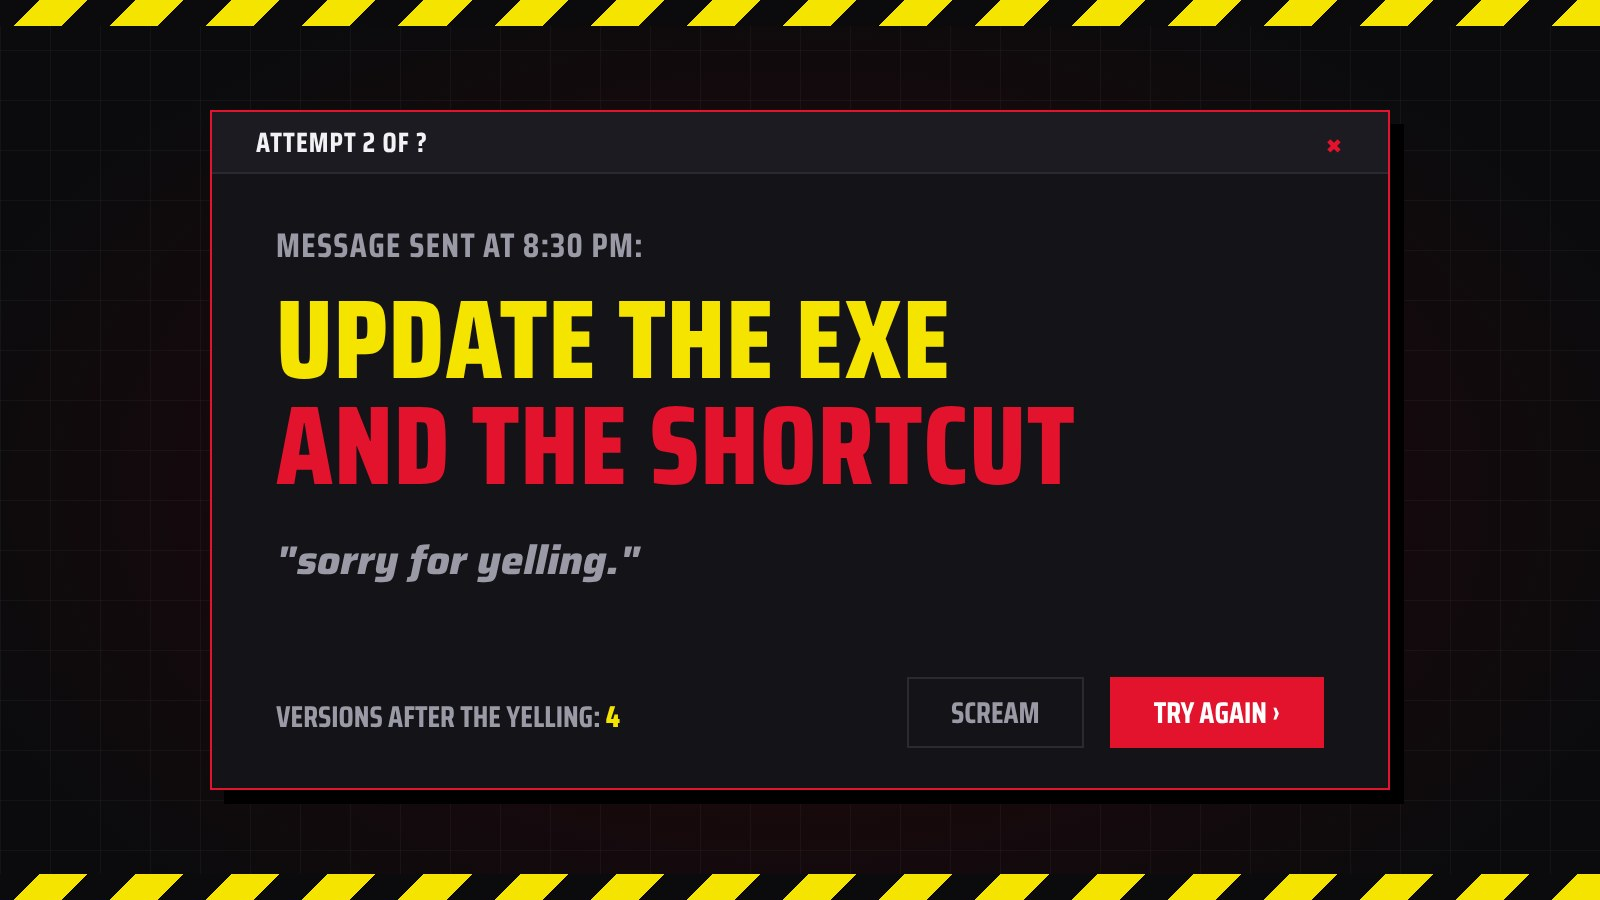
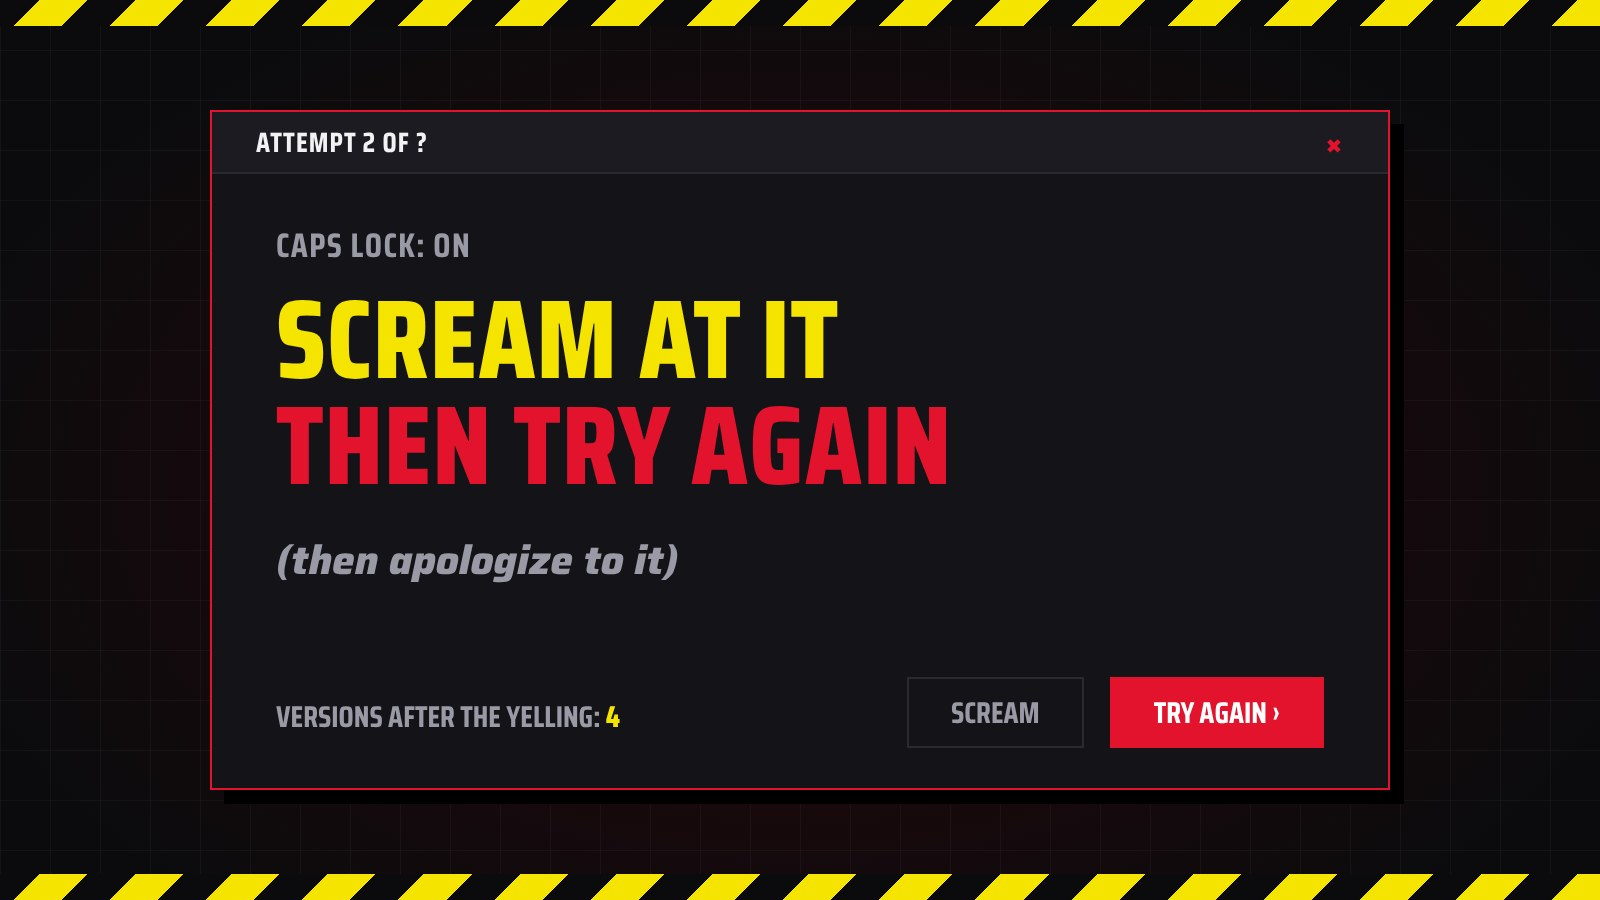
v0.32.1-alpha: scream post paraphrases instead of quoting
Claude-Session: https://claude.ai/code/session_01JCoxDD7QDAUCR5EihqqzKN

Changed region(s): [[0.1562, 0.2489, 0.6875, 0.56], [0.1562, 0.5911, 0.4375, 0.6533]]

diff --git a/docs/blog/scream-at-your-computer-and-try-again/index.html b/docs/blog/scream-at-your-computer-and-try-again/index.html
@@ -3,7 +3,7 @@
 <head>
   <meta charset="utf-8">
   <meta name="viewport" content="width=device-width, initial-scale=1">
-  <meta name="version" content="v0.32.0-alpha">
+  <meta name="version" content="v0.32.1-alpha">
   <meta name="theme-color" content="#0b0b0d">
   <title>If at First You Don't Succeed: Scream at Your Computer And Try Again | VRX Games</title>
   <link rel="icon" href="/assets/favicon.svg" type="image/svg+xml">
@@ -26,10 +26,8 @@
 <body data-page="post" data-slug="scream-at-your-computer-and-try-again">
   <main>
     <article id="post-content">
-      <p>Last night at about 8:30 I sent this to my computer:</p>
-      <blockquote><p>UPDATE THE EXE AND THE SHORTCUT ON MY DESKTOP - ALSO IT WONT LET MY PUT IN MY TOKEN AGAIN - ADD A MENU BAR WITH SETTINGS AND STUFF SO i CAN FUNCTIONALLY USE THIS</p></blockquote>
-      <p>And then, right after:</p>
-      <blockquote><p>sorry for yelling.</p></blockquote>
+      <p>Last night at about 8:30 I yelled at my computer. Full caps lock, no punctuation, a run-on sentence with three demands in it.</p>
+      <p>About ten seconds later I said sorry to it.</p>
       <p>I apologized to the computer. I'm not going to pretend I didn't.</p>
 
       <h2>What happened</h2>
@@ -38,7 +36,7 @@
       <p>I'd already changed my mind about how chat logs should work, I'd asked for an installer that wouldn't eat my saved copies, and then I opened the thing and it wouldn't let me type a password. That was the moment the caps lock came on.</p>
 
       <h2>The yelling was the bug report</h2>
-      <p>Here's the funny part. Read that message again. Under the shouting, it's a perfect bug report.</p>
+      <p>Here's the funny part. Under all the shouting, that message was a perfect bug report.</p>
       <ul>
         <li>What's broken: I can't put my token in again.</li>
         <li>What I need: a menu bar with settings.</li>

diff --git a/art/banners/scream-at-your-computer-and-try-again.html b/art/banners/scream-at-your-computer-and-try-again.html
@@ -10,9 +10,9 @@
 .cnt b { color: #f5e400; }
 </style>
 <div class="win"><div class="bar">Attempt 2 of ?<i>&times;</i></div><div class="in">
-<div class="q">Message sent at 8:30 pm:</div>
-<div class="big">Update the exe<br><span class="r">and the shortcut</span></div>
-<div class="sorry">"sorry for yelling."</div>
+<div class="q">Caps lock: on</div>
+<div class="big">Scream at it<br><span class="r">then try again</span></div>
+<div class="sorry">(then apologize to it)</div>
 <div class="cnt">Versions after the yelling: <b>4</b></div>
 <div class="btns"><span class="btn ghost">Scream</span><span class="btn">Try again &rsaquo;</span></div>
 </div></div>

diff --git a/docs/blog/you-can-make-anything-you-want/index.html b/docs/blog/you-can-make-anything-you-want/index.html
@@ -3,7 +3,7 @@
 <head>
   <meta charset="utf-8">
   <meta name="viewport" content="width=device-width, initial-scale=1">
-  <meta name="version" content="v0.32.0-alpha">
+  <meta name="version" content="v0.32.1-alpha">
   <meta name="theme-color" content="#0b0b0d">
   <title>You Can Make Anything You Want (Terms and Conditions Apply) | VRX Games</title>
   <link rel="icon" href="/assets/favicon.svg" type="image/svg+xml">

diff --git a/docs/blog/one-long-day/index.html b/docs/blog/one-long-day/index.html
@@ -3,7 +3,7 @@
 <head>
   <meta charset="utf-8">
   <meta name="viewport" content="width=device-width, initial-scale=1">
-  <meta name="version" content="v0.32.0-alpha">
+  <meta name="version" content="v0.32.1-alpha">
   <meta name="theme-color" content="#0b0b0d">
   <title>One long day: dice on stream, and an app that opens twice | VRX Games</title>
   <link rel="icon" href="/assets/favicon.svg" type="image/svg+xml">

diff --git a/docs/blog/pokedungeon-1-23/index.html b/docs/blog/pokedungeon-1-23/index.html
@@ -3,7 +3,7 @@
 <head>
   <meta charset="utf-8">
   <meta name="viewport" content="width=device-width, initial-scale=1">
-  <meta name="version" content="v0.32.0-alpha">
+  <meta name="version" content="v0.32.1-alpha">
   <meta name="theme-color" content="#0b0b0d">
   <title>PokéDungeon 1.23: shops are people, and deep floors pay | VRX Games</title>
   <link rel="icon" href="/assets/favicon.svg" type="image/svg+xml">

diff --git a/docs/blog/contract-zero-first-build/index.html b/docs/blog/contract-zero-first-build/index.html
@@ -3,7 +3,7 @@
 <head>
   <meta charset="utf-8">
   <meta name="viewport" content="width=device-width, initial-scale=1">
-  <meta name="version" content="v0.32.0-alpha">
+  <meta name="version" content="v0.32.1-alpha">
   <meta name="theme-color" content="#0b0b0d">
   <title>Contract Zero: from a design on paper to a first build | VRX Games</title>
   <link rel="icon" href="/assets/favicon.svg" type="image/svg+xml">

diff --git a/docs/blog/three-casino-games/index.html b/docs/blog/three-casino-games/index.html
@@ -3,7 +3,7 @@
 <head>
   <meta charset="utf-8">
   <meta name="viewport" content="width=device-width, initial-scale=1">
-  <meta name="version" content="v0.32.0-alpha">
+  <meta name="version" content="v0.32.1-alpha">
   <meta name="theme-color" content="#0b0b0d">
   <title>Three casino games, and the maths is the hard part | VRX Games</title>
   <link rel="icon" href="/assets/favicon.svg" type="image/svg+xml">

diff --git a/docs/blog/tempers-and-a-discord-backup/index.html b/docs/blog/tempers-and-a-discord-backup/index.html
@@ -3,7 +3,7 @@
 <head>
   <meta charset="utf-8">
   <meta name="viewport" content="width=device-width, initial-scale=1">
-  <meta name="version" content="v0.32.0-alpha">
+  <meta name="version" content="v0.32.1-alpha">
   <meta name="theme-color" content="#0b0b0d">
   <title>Tempers, patch notes and a Discord backup | VRX Games</title>
   <link rel="icon" href="/assets/favicon.svg" type="image/svg+xml">

diff --git a/docs/blog/clack-attack-painted-trays/index.html b/docs/blog/clack-attack-painted-trays/index.html
@@ -3,7 +3,7 @@
 <head>
   <meta charset="utf-8">
   <meta name="viewport" content="width=device-width, initial-scale=1">
-  <meta name="version" content="v0.32.0-alpha">
+  <meta name="version" content="v0.32.1-alpha">
   <meta name="theme-color" content="#0b0b0d">
   <title>Clack Attack: every tray gets painted | VRX Games</title>
   <link rel="icon" href="/assets/favicon.svg" type="image/svg+xml">

diff --git a/docs/blog/installers-patchers-and-a-pixel-dog/index.html b/docs/blog/installers-patchers-and-a-pixel-dog/index.html
@@ -3,7 +3,7 @@
 <head>
   <meta charset="utf-8">
   <meta name="viewport" content="width=device-width, initial-scale=1">
-  <meta name="version" content="v0.32.0-alpha">
+  <meta name="version" content="v0.32.1-alpha">
   <meta name="theme-color" content="#0b0b0d">
   <title>Installers, patchers and a pixel dog | VRX Games</title>
   <link rel="icon" href="/assets/favicon.svg" type="image/svg+xml">

diff --git a/docs/blog/your-passion-is-not-a-waste-of-time/index.html b/docs/blog/your-passion-is-not-a-waste-of-time/index.html
@@ -3,7 +3,7 @@
 <head>
   <meta charset="utf-8">
   <meta name="viewport" content="width=device-width, initial-scale=1">
-  <meta name="version" content="v0.32.0-alpha">
+  <meta name="version" content="v0.32.1-alpha">
   <meta name="theme-color" content="#0b0b0d">
   <title>Your passion is not a waste of time | VRX Games</title>
   <link rel="icon" href="/assets/favicon.svg" type="image/svg+xml">

diff --git a/docs/news/clack-attack-on-phones/index.html b/docs/news/clack-attack-on-phones/index.html
@@ -3,7 +3,7 @@
 <head>
   <meta charset="utf-8">
   <meta name="viewport" content="width=device-width, initial-scale=1">
-  <meta name="version" content="v0.32.0-alpha">
+  <meta name="version" content="v0.32.1-alpha">
   <meta name="theme-color" content="#0b0b0d">
   <title>Clack Attack works on phones | VRX Games</title>
   <link rel="icon" href="/assets/favicon.svg" type="image/svg+xml">
